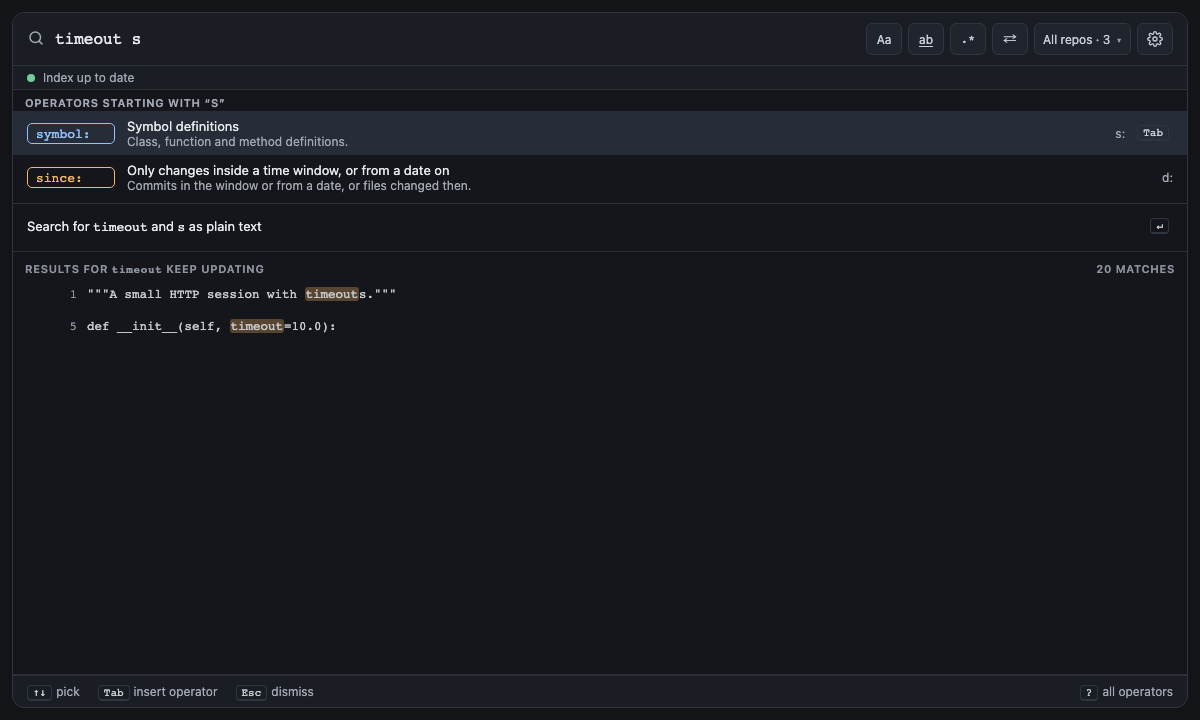
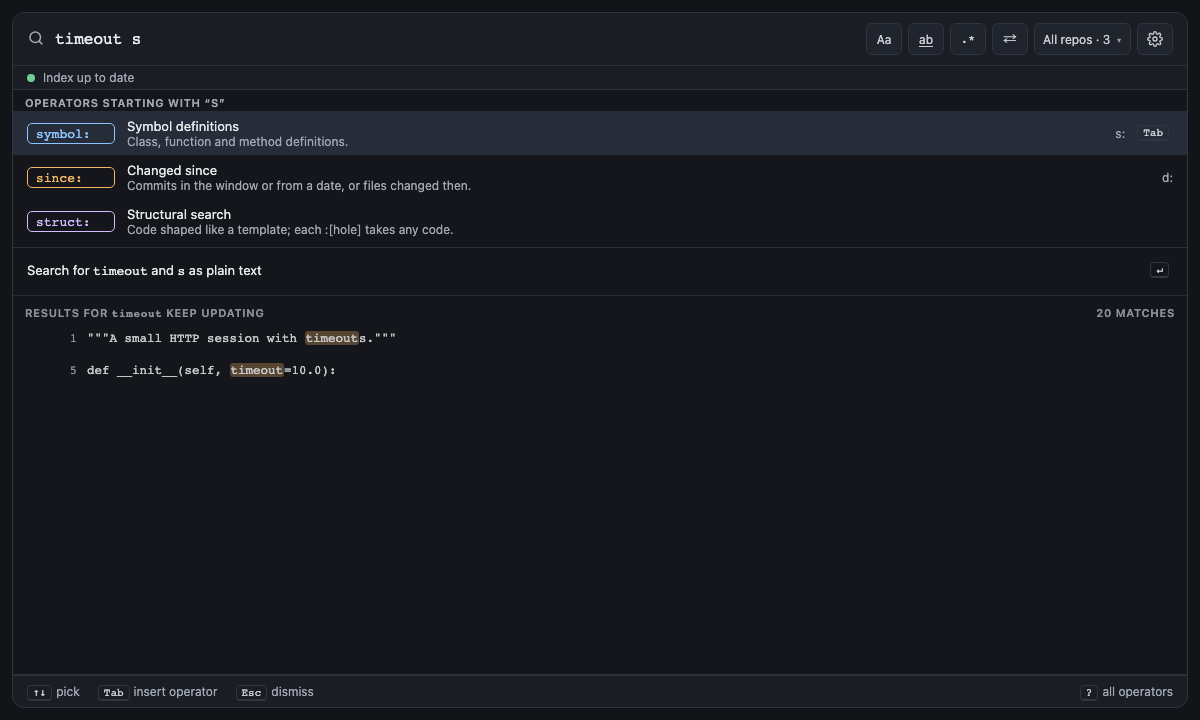
fix(daemon): give each operator suggestion a short title the line under it doesn't repeat
The panel shows an operator suggestion as the daemon's summary above its
own one-line explanation from webview/src/operators.ts, and the two had
drifted into saying the same thing: struct:'s read "Code shaped like a
template, whose :[holes] take any code" over "Code shaped like a
template; each :[hole] takes any code.", and content:, message:, owner: and
at: matched word for word. The daemon's summaries are now titles of at
most three words naming the operator ("Structural search", "Changed
since"), and an extension test checks, against the real daemon, that no
title is repeated by the line under it.

diff --git a/extension/src/test/operatorSuggestions.test.ts b/extension/src/test/operatorSuggestions.test.ts
@@ -1,0 +1,34 @@
+// An operator suggestion shows the daemon's title for the operator above the
+// panel's one-line explanation of it (webview/src/operators.ts): the two
+// lines must say different things.
+// @covers screen:operator-suggestions
+import assert from "node:assert/strict";
+import { test } from "node:test";
+import { fullName, OPERATOR_GROUPS } from "../../../webview/src/operators";
+import { newTestDaemon, SKIP_WITHOUT_DAEMON as skip } from "./realDaemon";
+
+/** The longest a title may be, in words: it names the operator, and the line below explains it. */
+const MAX_TITLE_WORDS = 3;
+
+test("each operator suggestion's title names the operator without repeating the line under it", { skip }, async () => {
+  const daemon = newTestDaemon([]);
+  await daemon.start();
+  try {
+    const entries = OPERATOR_GROUPS.flatMap((group) => group.entries).filter((entry) => entry.operator);
+    assert.equal(entries.length, 20, "every operator");
+    for (const entry of entries) {
+      const name = fullName(entry.operator ?? "f");
+      const { completions } = await daemon.request("query/parse", { text: name, cursor: name.length });
+      const suggestion = completions.find((completion) => completion.label === `${name}:`);
+      assert.ok(suggestion, `${name}: is suggested for "${name}"`);
+      const title = suggestion.detail;
+      assert.ok(title.split(/\s+/).length <= MAX_TITLE_WORDS, `${name}: title "${title}" is a name, not a sentence`);
+      assert.ok(
+        !entry.summary.toLowerCase().includes(title.toLowerCase()),
+        `${name}: "${entry.summary}" repeats the title "${title}"`,
+      );
+    }
+  } finally {
+    await daemon.stop();
+  }
+});

diff --git a/daemon/internal/query/operators.go b/daemon/internal/query/operators.go
@@ -37,7 +37,9 @@ type operator struct {
 	// global operators apply to the whole query and may appear once, at the top level.
 	global bool
 	scope  scope
-	// summary is the one-line description shown in completions.
+	// summary names the operator in a few words: the title of its suggestion,
+	// above the panel's one-line explanation (webview/src/operators.ts), which
+	// it mustn't repeat.
 	summary string
 	// examples are valid values, offered as fixes for a bad value.
 	examples []string
@@ -49,26 +51,26 @@ type operator struct {
 // word that is exactly a short name offers that operator first, so "s"
 // offers symbol: before since:.
 var operators = []operator{
-	{name: protocol.OpNameF, full: "file", short: "f", aliases: []string{"path"}, summary: "File path, as a regex or a glob", examples: []string{"*.py", `\.py$`, "src/", "test"}, interpret: asPathRegex},
-	{name: protocol.OpNameAuthor, full: "author", short: "a", scope: scopeHistoryOnly, summary: "Commits by this person", interpret: asName},
-	{name: protocol.OpNameSince, full: "since", short: "d", summary: "Only changes inside a time window, or from a date on", examples: windowExamples, interpret: asWindow("since")},
-	{name: protocol.OpNameUntil, full: "until", short: "u", summary: "Only changes older than a time window, or up to a date", examples: windowExamples, interpret: asWindow("until")},
+	{name: protocol.OpNameF, full: "file", short: "f", aliases: []string{"path"}, summary: "Paths to search", examples: []string{"*.py", `\.py$`, "src/", "test"}, interpret: asPathRegex},
+	{name: protocol.OpNameAuthor, full: "author", short: "a", scope: scopeHistoryOnly, summary: "Commit author", interpret: asName},
+	{name: protocol.OpNameSince, full: "since", short: "d", summary: "Changed since", examples: windowExamples, interpret: asWindow("since")},
+	{name: protocol.OpNameUntil, full: "until", short: "u", summary: "Changed before", examples: windowExamples, interpret: asWindow("until")},
 	{name: protocol.OpNameSym, full: "symbol", short: "s", scope: scopeWorkingTreeOnly, summary: "Symbol definitions", interpret: asText},
-	{name: protocol.OpNameKind, full: "kind", short: "k", scope: scopeWorkingTreeOnly, summary: "Only definitions of one kind", examples: SymbolKinds, interpret: oneOf(SymbolKinds...)},
-	{name: protocol.OpNameRef, full: "ref", short: "x", scope: scopeWorkingTreeOnly, summary: "Whole-word uses of a name, without its definitions", interpret: asReference},
-	{name: protocol.OpNameIs, full: "is", short: "i", summary: "Open, changed, test, generated or vendored files", examples: []string{StateOpen, StateChanged, StateTest, StateGenerated, StateVendored}, interpret: oneOf(StateOpen, StateChanged, StateTest, StateGenerated, StateVendored)},
-	{name: protocol.OpNameOwner, full: "owner", scope: scopeWorkingTreeOnly, summary: "Files a person or team owns in CODEOWNERS", interpret: asOwner},
-	{name: protocol.OpNameContent, full: "content", summary: "Text inside files only, never file names", examples: []string{"retry", `"read timeout"`, "/Retry(Policy)?/"}, interpret: asText},
-	{name: protocol.OpNameStruct, full: "struct", scope: scopeWorkingTreeOnly, summary: "Code shaped like a template, whose :[holes] take any code", interpret: asTemplate},
+	{name: protocol.OpNameKind, full: "kind", short: "k", scope: scopeWorkingTreeOnly, summary: "Definition kind", examples: SymbolKinds, interpret: oneOf(SymbolKinds...)},
+	{name: protocol.OpNameRef, full: "ref", short: "x", scope: scopeWorkingTreeOnly, summary: "References", interpret: asReference},
+	{name: protocol.OpNameIs, full: "is", short: "i", summary: "File state", examples: []string{StateOpen, StateChanged, StateTest, StateGenerated, StateVendored}, interpret: oneOf(StateOpen, StateChanged, StateTest, StateGenerated, StateVendored)},
+	{name: protocol.OpNameOwner, full: "owner", scope: scopeWorkingTreeOnly, summary: "Code owner", interpret: asOwner},
+	{name: protocol.OpNameContent, full: "content", summary: "File text only", examples: []string{"retry", `"read timeout"`, "/Retry(Policy)?/"}, interpret: asText},
+	{name: protocol.OpNameStruct, full: "struct", scope: scopeWorkingTreeOnly, summary: "Structural search", interpret: asTemplate},
 	{name: protocol.OpNameLang, full: "language", short: "l", summary: "Programming language", examples: []string{"python", "go", "typescript"}, interpret: asLanguage},
-	{name: protocol.OpNameRepo, full: "repo", short: "r", summary: "Repo name, as a regex or a glob", interpret: asPathRegex},
-	{name: protocol.OpNameMsg, full: "message", short: "m", scope: scopeHistoryOnly, summary: "Words in the commit message", interpret: asText},
-	{name: protocol.OpNameType, full: "type", short: "t", global: true, summary: "Only file names, code, commits, or lines commits added or removed", examples: fixedValueNames(protocol.OpNameType), interpret: oneOf(fixedValueNames(protocol.OpNameType)...)},
-	{name: protocol.OpNameCase, full: "case", short: "c", global: true, summary: "Match case (yes), ignore it (no), or match it when the query has a capital (smart)", examples: fixedValueNames(protocol.OpNameCase), interpret: oneOf(fixedValueNames(protocol.OpNameCase)...)},
-	{name: protocol.OpNameWord, full: "word", short: "w", global: true, summary: "Match whole words only (yes) or parts of words too (no)", examples: fixedValueNames(protocol.OpNameWord), interpret: oneOf(fixedValueNames(protocol.OpNameWord)...)},
-	{name: protocol.OpNameCount, full: "count", short: "n", global: true, summary: "How many results", examples: []string{"50", "200", "all"}, interpret: asCount},
-	{name: protocol.OpNameOrder, full: "order", short: "o", global: true, scope: scopeWorkingTreeOnly, summary: "Best match first, or by path", examples: fixedValueNames(protocol.OpNameOrder), interpret: oneOf(fixedValueNames(protocol.OpNameOrder)...)},
-	{name: protocol.OpNameAt, full: "at", global: true, scope: scopeWorkingTreeOnly, summary: "Files as they were at a tag, branch, commit or time", examples: []string{"v1.0.0", "main", "HEAD~10", "6m", "2026-01-31"}, interpret: asRevision},
+	{name: protocol.OpNameRepo, full: "repo", short: "r", summary: "Repos to search", interpret: asPathRegex},
+	{name: protocol.OpNameMsg, full: "message", short: "m", scope: scopeHistoryOnly, summary: "Message text", interpret: asText},
+	{name: protocol.OpNameType, full: "type", short: "t", global: true, summary: "Result kind", examples: fixedValueNames(protocol.OpNameType), interpret: oneOf(fixedValueNames(protocol.OpNameType)...)},
+	{name: protocol.OpNameCase, full: "case", short: "c", global: true, summary: "Case matching", examples: fixedValueNames(protocol.OpNameCase), interpret: oneOf(fixedValueNames(protocol.OpNameCase)...)},
+	{name: protocol.OpNameWord, full: "word", short: "w", global: true, summary: "Word boundaries", examples: fixedValueNames(protocol.OpNameWord), interpret: oneOf(fixedValueNames(protocol.OpNameWord)...)},
+	{name: protocol.OpNameCount, full: "count", short: "n", global: true, summary: "Page size", examples: []string{"50", "200", "all"}, interpret: asCount},
+	{name: protocol.OpNameOrder, full: "order", short: "o", global: true, scope: scopeWorkingTreeOnly, summary: "Result order", examples: fixedValueNames(protocol.OpNameOrder), interpret: oneOf(fixedValueNames(protocol.OpNameOrder)...)},
+	{name: protocol.OpNameAt, full: "at", global: true, scope: scopeWorkingTreeOnly, summary: "Past revision", examples: []string{"v1.0.0", "main", "HEAD~10", "6m", "2026-01-31"}, interpret: asRevision},
 }
 
 // The values of is:, the file states it can match.

diff --git a/CHANGELOG.md b/CHANGELOG.md
@@ -10,6 +10,10 @@ All notable changes to this project are documented here. The format follows
 - Typing `since:6m` suggested only “6min · Last 6 minutes”, though `6m` means six months; a whole window you have
   typed is now listed first as it reads (“6m · Last 6 months”), ahead of the units it could still become. The same
   goes for `until:` and `at:`.
+- An operator suggestion said nearly the same thing twice: `struct:` read “Code shaped like a template, whose :[holes]
+  take any code” above “Code shaped like a template; each :[hole] takes any code.”, and `content:`, `message:`,
+  `owner:` and `at:` repeated their line word for word. Each now has a short title (**Structural search**, **File text
+  only** …) above its one-line explanation.
 
 ### Added
 
